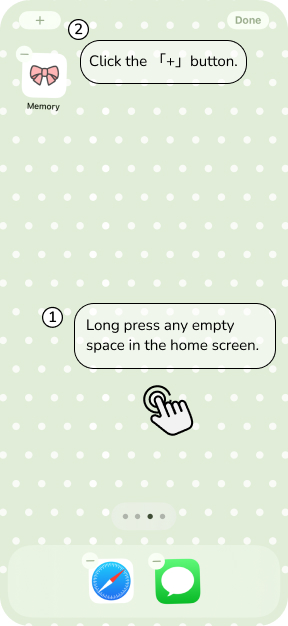
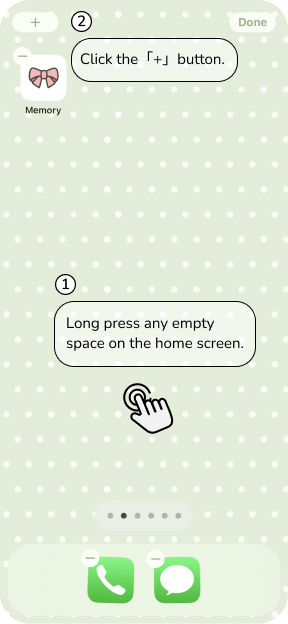
widget tutorial

diff --git a/_posts/2022-08-11-widgettutorialen.md b/_posts/2022-08-11-widgettutorialen.md
@@ -7,17 +7,24 @@ date: 2022-08-24
 - **How to add a widget to the home screen?**
 
 ### 1.
-Go to the home screen and long press any empty space when apps are jiggling.\
-Click the 「+」 button at the top.\
-You can search or find the 「Memory」 widget in the list. Click the 「Memory」widget to add it to the home screen.\
+Go to the home screen and long press any empty space.\
+Click the「+」button at the top.\
 
 ![Alt text](/images/tutorial_1.jpg?raw=true "Optional Title")
 
 ### 2. 
-After adding the default widget to the home screen, long press the widget and select "Edit Widget".
+You can search or find the「Memory」widget in the list.\
+![Alt text](/images/tutorial_2.jpg?raw=true "Optional Title")
 
 ### 3.
-Click the "Select Style" to choose the style of widget.
+Click「Memory」widget to add it to the home screen.
+![Alt text](/images/tutorial_3.jpg?raw=true "Optional Title")
 
 ### 4.
+After adding the default widget to the home screen, long press the widget and select "Edit Widget".
+
+### 5.
+Click the "Select Style" to choose the style of widget.
+
+### 6.
 You can edit the widget content in the Setting > Widget. 
